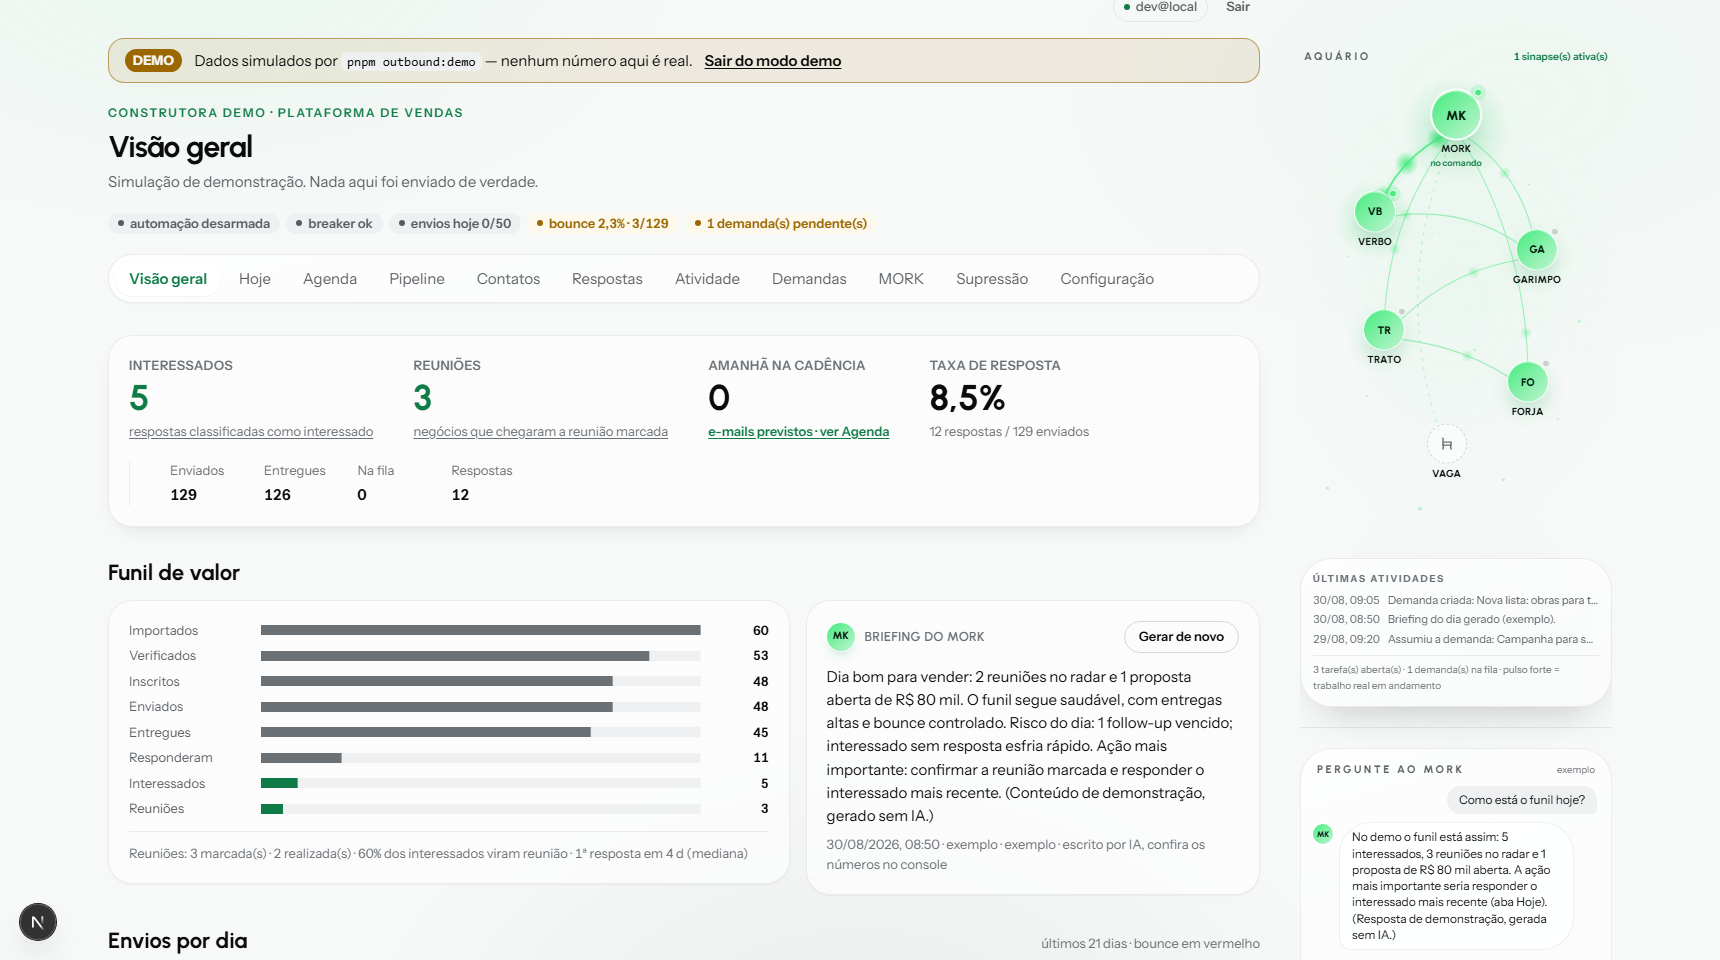
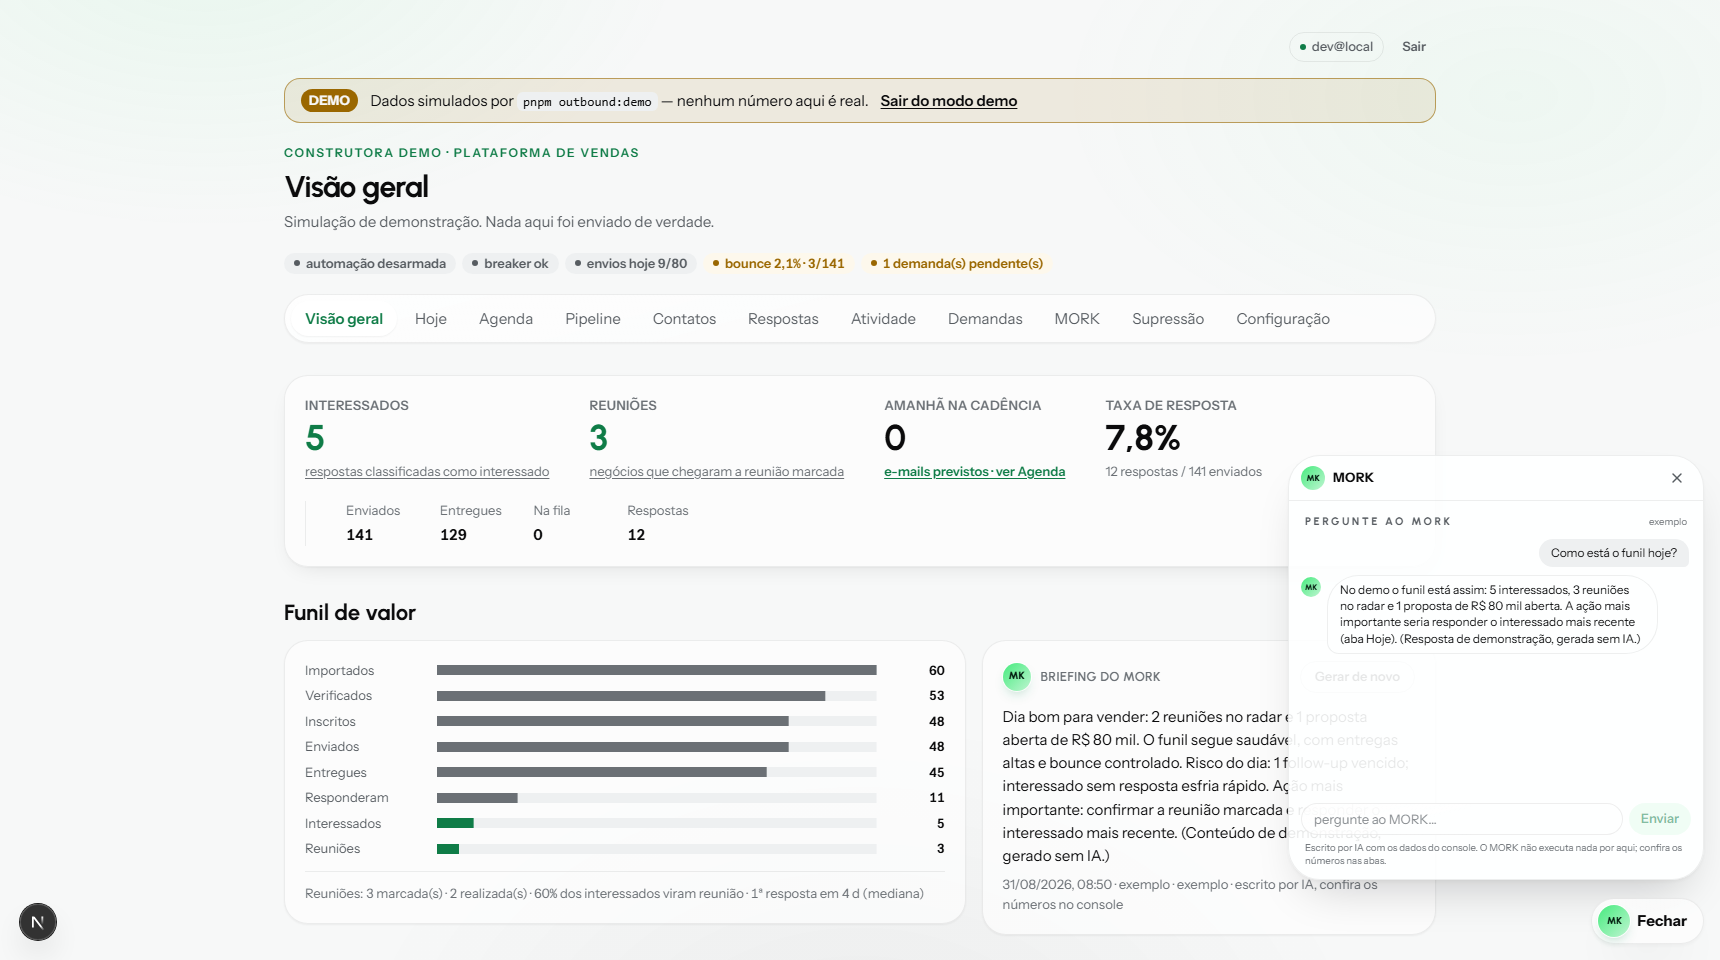
feat(crm): mundos separados, CRM em largura total, Aquario na aba MORK e chat flutuante
Pedido do Luigi: menos poluicao, chat maior e integrado, Aquario separado do CRM. A coluna lateral foi aposentada: o CRM ocupa a largura toda em todas as abas. O Aquario vive apenas na aba MORK (a sala do time, sempre em tamanho pleno). O chat virou MorkFlutuante: botao-pilula fixo no canto inferior direito com o monograma MK, presente em toda aba, abre painel de vidro fosco denso (26rem x ate 55dvh; bg-white/90 + blur para legibilidade sobre texto) com o AquarioChat em modo alto; estado aberto persiste na sessao via useSyncExternalStore sobre sessionStorage (padrao do ConsentBanner; o lint react-hooks/set-state-in-effect vetou o setState em effect) e Esc fecha. QA screenshots atualizados. Gate 307 unit + build e 80 e2e verdes.

diff --git a/src/app/interno/outbound/mork-flutuante.tsx b/src/app/interno/outbound/mork-flutuante.tsx
@@ -1,0 +1,109 @@
+"use client";
+
+import { useEffect, useSyncExternalStore } from "react";
+import { X } from "lucide-react";
+import { AquarioChat } from "./aquario-chat";
+
+/**
+ * O MORK integrado ao console inteiro: botão flutuante no canto inferior
+ * direito abre um painel de vidro GRANDE com o chat, em qualquer aba, sem
+ * roubar largura do CRM (pedido do Luigi: chat maior e integrado; o Aquário
+ * vive separado, na aba MORK). Estado aberto sobrevive à navegação na sessão.
+ * Esc fecha. Herda o material de vidro do escopo do console.
+ */
+const CHAVE_ABERTO = "mork-chat-aberto";
+let ouvintes: Array<() => void> = [];
+
+function lerAberto(): boolean {
+  try {
+    return sessionStorage.getItem(CHAVE_ABERTO) === "1";
+  } catch {
+    return false;
+  }
+}
+
+/** O estado vive num store externo (sessionStorage) lido por useSyncExternalStore:
+ *  hidrata sem cascata de renders e sobrevive à navegação entre abas do console. */
+function gravarAberto(valor: boolean) {
+  try {
+    sessionStorage.setItem(CHAVE_ABERTO, valor ? "1" : "0");
+  } catch {
+    // sem sessionStorage (modo restrito): o estado apenas não persiste
+  }
+  for (const ouvinte of ouvintes) ouvinte();
+}
+
+function assinar(cb: () => void) {
+  ouvintes.push(cb);
+  return () => {
+    ouvintes = ouvintes.filter((o) => o !== cb);
+  };
+}
+
+export function MorkFlutuante({ isDemo }: { isDemo: boolean }) {
+  const aberto = useSyncExternalStore(assinar, lerAberto, () => false);
+
+  useEffect(() => {
+    if (!aberto) return;
+    const onKey = (e: KeyboardEvent) => {
+      if (e.key === "Escape") gravarAberto(false);
+    };
+    window.addEventListener("keydown", onKey);
+    return () => window.removeEventListener("keydown", onKey);
+  }, [aberto]);
+
+  return (
+    <>
+      {aberto ? (
+        <div className="fixed right-4 bottom-20 z-50 w-[min(26rem,calc(100vw-2rem))] motion-safe:animate-rise-in">
+          {/* Mais fosco que o vidro padrão: o chat abre SOBRE texto denso e precisa de legibilidade. */}
+          <div className="overflow-hidden rounded-2xl border border-border bg-white/90 shadow-lg backdrop-blur-xl">
+            <div className="flex items-center justify-between gap-2 border-b border-border px-3 py-2">
+              <span className="flex items-center gap-2">
+                <span
+                  aria-hidden
+                  className="inline-flex size-6 items-center justify-center rounded-full font-display text-[0.55rem] font-extrabold text-[#052012]"
+                  style={{
+                    background: "linear-gradient(135deg, #46eb7e 0%, #bff5d1 100%)",
+                    boxShadow: "0 0 0 1px rgb(255 255 255 / 0.85)",
+                  }}
+                >
+                  MK
+                </span>
+                <span className="text-xs font-bold tracking-wide text-foreground uppercase">MORK</span>
+              </span>
+              <button
+                type="button"
+                onClick={() => gravarAberto(false)}
+                aria-label="Fechar o chat"
+                className="grid size-7 place-items-center rounded-full text-foreground-muted transition-colors duration-(--duration-fast) hover:bg-surface-hover hover:text-foreground focus-visible:outline-2 focus-visible:outline-offset-2 focus-visible:outline-focus"
+              >
+                <X className="size-4" aria-hidden="true" />
+              </button>
+            </div>
+            <AquarioChat isDemo={isDemo} alto />
+          </div>
+        </div>
+      ) : null}
+
+      <button
+        type="button"
+        onClick={() => gravarAberto(!aberto)}
+        aria-expanded={aberto}
+        className="fixed right-4 bottom-4 z-50 flex items-center gap-2 rounded-full border border-border bg-surface py-1.5 pr-4 pl-1.5 text-small font-bold text-foreground shadow-lg transition-[box-shadow,transform] duration-(--duration-fast) ease-(--ease-out) hover:shadow-xl focus-visible:outline-2 focus-visible:outline-offset-2 focus-visible:outline-focus motion-safe:hover:-translate-y-0.5"
+      >
+        <span
+          aria-hidden
+          className="inline-flex size-8 items-center justify-center rounded-full font-display text-[0.62rem] font-extrabold text-[#052012]"
+          style={{
+            background: "linear-gradient(135deg, #46eb7e 0%, #bff5d1 100%)",
+            boxShadow: "0 0 0 1px rgb(255 255 255 / 0.85), 0 6px 14px -6px rgb(15 124 71 / 0.45)",
+          }}
+        >
+          MK
+        </span>
+        {aberto ? "Fechar" : "Pergunte ao MORK"}
+      </button>
+    </>
+  );
+}

diff --git a/src/app/interno/outbound/aquario-chat.tsx b/src/app/interno/outbound/aquario-chat.tsx
@@ -20,7 +20,7 @@ const SUGESTOES = ["Como está o funil hoje?", "O que o time fez esta semana?", 
 /** Últimas trocas enviadas como contexto (a rota também limita). */
 const HISTORICO_MAX = 6;
 
-export function AquarioChat({ isDemo }: { isDemo: boolean }) {
+export function AquarioChat({ isDemo, alto = false }: { isDemo: boolean; alto?: boolean }) {
   const [msgs, setMsgs] = useState<ChatMsg[]>([]);
   const [texto, setTexto] = useState("");
   const [loading, setLoading] = useState(false);
@@ -66,7 +66,10 @@ export function AquarioChat({ isDemo }: { isDemo: boolean }) {
   }
 
   return (
-    <section aria-label="Pergunte ao MORK" className="rounded-2xl border border-border bg-surface p-3 shadow-sm">
+    <section
+      aria-label="Pergunte ao MORK"
+      className={alto ? "p-3" : "rounded-2xl border border-border bg-surface p-3 shadow-sm"}
+    >
       <header className="flex items-baseline justify-between gap-2 px-1">
         <h2 className="font-display text-[0.68rem] font-bold tracking-[0.24em] text-foreground-muted uppercase">
           Pergunte ao MORK
@@ -74,7 +77,12 @@ export function AquarioChat({ isDemo }: { isDemo: boolean }) {
         {model ? <p className="text-[0.6rem] text-foreground-subtle">{model}</p> : null}
       </header>
 
-      <div aria-live="polite" className="no-scrollbar mt-2 flex max-h-64 min-h-0 flex-col gap-2 overflow-y-auto pr-0.5">
+      <div
+        aria-live="polite"
+        className={`no-scrollbar mt-2 flex min-h-0 flex-col gap-2 overflow-y-auto pr-0.5 ${
+          alto ? "max-h-[55dvh] min-h-[16rem]" : "max-h-64"
+        }`}
+      >
         {msgs.length === 0 && !loading ? (
           <div className="flex flex-col gap-1.5 py-1">
             <p className="text-[0.7rem] leading-snug text-foreground-muted">

diff --git a/src/app/interno/outbound/shell.tsx b/src/app/interno/outbound/shell.tsx
@@ -4,10 +4,9 @@ import { getOutboundEnv } from "@/lib/outbound/config";
 import { dailyCap, usedTodayCount } from "@/lib/outbound/engine";
 import { evaluateGuardRails } from "@/lib/outbound/guardrails";
 import { orphanScheduled } from "@/lib/outbound/metrics";
-import { Aquario } from "./aquario";
-import { AquarioChat } from "./aquario-chat";
 import { AtalhosDoConsole } from "./atalhos";
 import { MaterialRoot } from "./material-root";
+import { MorkFlutuante } from "./mork-flutuante";
 import { consoleHref, type DashboardData } from "./data";
 import { Code, fmtDateTime, fmtInt, fmtPct } from "./ui";
 
@@ -293,18 +292,9 @@ export function ConsoleShell({
         <div>{children}</div>
       </div>
 
-      {/* Aquário + chat do MORK (telas largas; a aba MORK cobre as demais).
-          A coluna é sticky e rola por dentro quando o conjunto passa da tela. */}
-      <aside className="hidden w-[19.5rem] shrink-0 pt-14 2xl:block">
-        {/* scroll-slim: rolagem visível e honesta (P0 #2 de docs/MELHORIAS-CONSOLE.md). */}
-        <div className="scroll-slim sticky top-6 max-h-[calc(100dvh-3rem)] overflow-y-auto pr-1">
-          <Aquario data={data} />
-          {/* A linha divide o tanque da conversa: em cima o time, embaixo as perguntas. */}
-          <div className="mt-5 border-t border-border pt-5">
-            <AquarioChat isDemo={data.isDemo} />
-          </div>
-        </div>
-      </aside>
+      {/* Mundos separados (pedido do Luigi): o CRM fica com a largura toda; o
+          Aquário mora na aba MORK; o chat é o painel flutuante, em toda aba. */}
+      <MorkFlutuante isDemo={data.isDemo} />
     </div>
   );
 }

diff --git a/src/app/interno/outbound/mork/page.tsx b/src/app/interno/outbound/mork/page.tsx
@@ -4,7 +4,6 @@ import { Card } from "@/components/ui/Card";
 import { requireSession } from "@/lib/outbound/auth";
 import type { AgentActivity } from "@/lib/outbound/types";
 import { Aquario } from "../aquario";
-import { AquarioChat } from "../aquario-chat";
 import { consoleHref, demoRequested, loadDashboardData, type SearchParams } from "../data";
 import { ConsoleShell } from "../shell";
 import { AGENT_ACTIVITY_LABELS, Code, EmptyState, fmtDate, fmtDateTime, fmtInt, Stat } from "../ui";
@@ -81,12 +80,10 @@ export default async function MorkPage({ searchParams }: { searchParams: Promise
           </Card>
         </section>
 
-        {/* Aquário + chat para telas menores (nas largas moram fixos à direita do console). */}
-        <section aria-label="Aquário do time" className="flex justify-center 2xl:hidden">
+        {/* A sala do time: o Aquário mora AQUI, separado do fluxo de trabalho do CRM
+            (o chat é o painel flutuante do MORK, presente em toda aba). */}
+        <section aria-label="Aquário do time" className="flex justify-center">
           <Aquario data={data} />
-        </section>
-        <section className="mx-auto w-full max-w-md 2xl:hidden">
-          <AquarioChat isDemo={isDemo} />
         </section>
 
         <section aria-labelledby="mork-timeline-title">

diff --git a/docs/HANDOFF.md b/docs/HANDOFF.md
@@ -21,6 +21,7 @@ Atualizado em 2026-08-30 (pivô para plataforma de vendas — ver bullet **PIVÔ
 - **Campanhas e Contatos refinados na Visão geral (2026-08-30)**: fim da bagunça apontada pelo Luigi: campanha real (aprovada/pausada ou com atividade) ganha card completo com régua de 4 métricas divididas por hairline (zeros esmaecidos, verde só em interessados) e barra fina de inscritos ativos; rascunhos parados colapsam em linhas compactas (Rascunhos (n)); bounce vira texto com amostra em vez de chip. Painel de Contatos virou colunas divididas por hairline vertical (total, status, verificação, top indústrias) com trilho por linha, zeros mudos e mini-barras proporcionais nas indústrias (rótulo completo, sem truncar).
 - **Aba Contatos em nível superior (2026-08-31)**: quitadas as pendências da auditoria nesta aba: ordenação clicável nos cabeçalhos (?ordem=empresa|verificacao|ultimo_envio, sufixo -desc, aria-sort + seta; verificacao-desc responde quem está sujo e ultimo_envio quem esfriou), Mostrar mais no rodapé da tabela (?limite= cresce de 100 em 100 até 2000, preservando filtros/ordem; fim dos contatos inalcançáveis), filtros que aplicam sozinhos ao trocar o select (FiltroSelect client com requestSubmit; botão Filtrar segue como fallback sem JS; trocar filtro reseta o limite e preserva a ordem) e monogramas de empresa (duas iniciais, neutros) ancorando a coluna Contato; cargo/indústria truncam com tooltip. Pendências que seguem abertas nas OUTRAS abas: paginação da Atividade, busca na Supressão, atalhos de teclado, useActionState.
 - **Plano de melhorias do console (2026-08-31)**: a pedido do Luigi, docs/MELHORIAS-CONSOLE.md é o contrato de qualidade do CRM piloto (P0/P1/P2 com status por item). P0 feitos no mesmo dia: fichas do Aquário viraram painel central de vidro DENTRO da lente (CSS :has por cadeira, hover e foco, aria-describedby; imune a clipping; a versão anterior era cortada pela rolagem interna da coluna, regressão introduzida junto com o chat) e a coluna lateral ganhou scrollbar fina visível (scroll-slim). Processo novo: mudança em coluna lateral/elemento flutuante exige espelho com hover aberto em 1536px e 1720px.
+- **Mundos separados (2026-08-31, pedido do Luigi: menos poluição, chat maior e integrado, Aquário separado do CRM)**: a coluna lateral foi APOSENTADA. O CRM ocupa a largura toda em todas as abas; o Aquário mora só na aba MORK (a sala do time, sempre em tamanho pleno); o chat virou MorkFlutuante: botão-pílula fixo no canto inferior direito (monograma MK) presente em toda aba, abre painel de vidro fosco denso (26rem × até 55dvh, bg-white/90 + blur para legibilidade sobre texto), estado aberto persiste na sessão (sessionStorage), Esc fecha. AquarioChat ganhou prop alto (painel grande sem moldura própria).
 
 ## Mapa rápido
 
